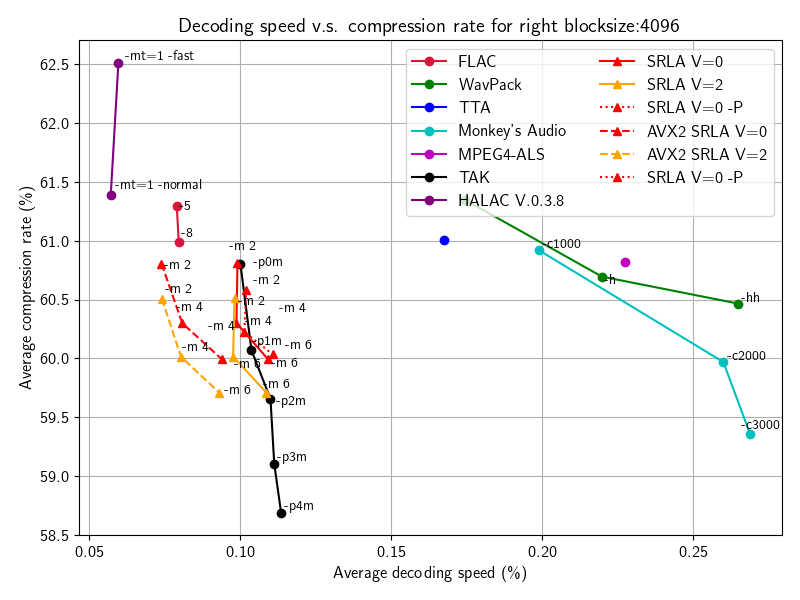
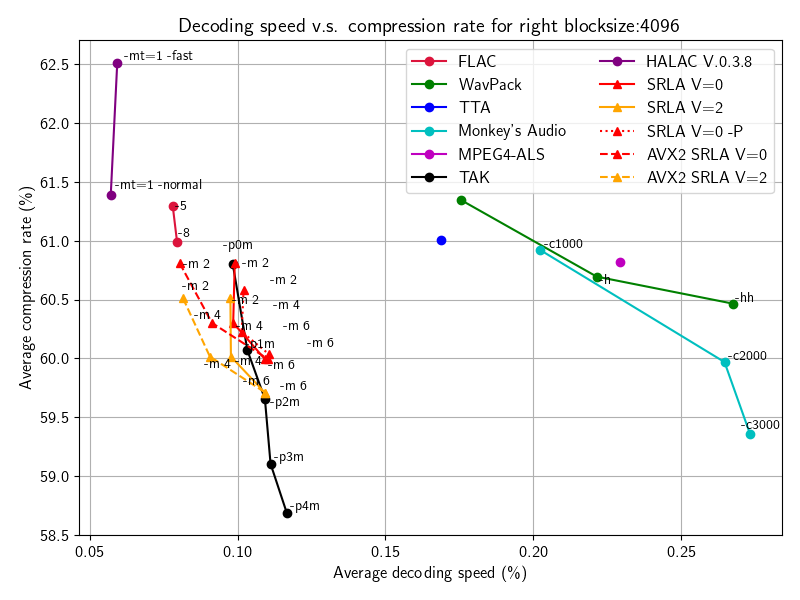
update results.

diff --git a/evaluation/plot_codec_performance_graph.py b/evaluation/plot_codec_performance_graph.py
@@ -15,7 +15,7 @@ OTHER_CODEC_LABEL_PREFIXES = ['FLAC', 'WavPack', 'TTA', 'Monkey\'s Audio', 'MPEG
 COLORLIST = ['crimson', 'g', 'b', 'c', 'm', 'k', 'purple', 'red', 'orange']
 CATEGORIES = ['classic', 'genre', 'jazz', 'popular', 'right', 'total']
 
-AVOID_LABEL_LIST = ['FLAC -0', 'WavPack -x4', 'WavPack -h -x4', 'WavPack -hh -x4', 'Monkey\'s Audio -c4000', 'MPEG4-ALS -b', 'MPEG4-ALS -7', 'TAK -p0e', 'TAK -p0', 'TAK -p1e', 'TAK -p1', 'TAK -p2e', 'TAK -p2', 'TAK -p3e', 'TAK -p3','TAK -p4e', 'TAK -p4', 'SRLA -m 0']
+AVOID_LABEL_LIST = ['FLAC -0', 'WavPack -x4', 'WavPack -h -x4', 'WavPack -hh -x4', 'Monkey\'s Audio -c4000', 'MPEG4-ALS -b', 'MPEG4-ALS -7', 'TAK -p0e', 'TAK -p0', 'TAK -p1e', 'TAK -p1', 'TAK -p2e', 'TAK -p2', 'TAK -p3e', 'TAK -p3','TAK -p4e', 'TAK -p4', 'SRLA -m 0', 'HALAC V.0.3.8 -mt=1 -ufast']
 
 def _is_avoid_label(label, include_match=False):
     if include_match is True:
@@ -84,7 +84,7 @@ if __name__ == "__main__":
                 line = [[], []]
                 for label in avx2_srla_codecs_df.keys():
                     if label.startswith('SRLA'):
-                        if not str(block_size) in label or not f'-V {div}' in label or '-P' in label or _is_avoid_label(label, True):
+                        if not str(block_size) in label or not f'-V {div}' in label or '-P 3' in label or _is_avoid_label(label, True):
                             continue
                         option_prefix = label[len('SRLA'):label.index('V') - 1]
                         decode_time = float(avx2_srla_codecs_df.at[f'{category} mean decode time', label])
@@ -93,19 +93,6 @@ if __name__ == "__main__":
                         line[0].append(decode_time)
                         line[1].append(compress_rate)
                 plt.plot(line[0], line[1], color=COLORLIST[len(OTHER_CODEC_LABEL_PREFIXES) + div_index], label=f'AVX2 SRLA V={div}', marker='^', linestyle='--')
-            for div_index, div in enumerate([0]):
-                line = [[], []]
-                for label in avx2_srla_codecs_df.keys():
-                    if label.startswith('SRLA'):
-                        if not str(block_size) in label or not f'-V {div}' in label or not '-P' in label or _is_avoid_label(label, True):
-                            continue
-                        option_prefix = label[len('SRLA'):label.index('V') - 1]
-                        decode_time = float(srla_codecs_df.at[f'{category} mean decode time', label])
-                        compress_rate = float(srla_codecs_df.at[f'{category} mean compression rate', label])
-                        texts.append(plt.text(decode_time, compress_rate, option_prefix, size=10))
-                        line[0].append(decode_time)
-                        line[1].append(compress_rate)
-                plt.plot(line[0], line[1], color=COLORLIST[len(OTHER_CODEC_LABEL_PREFIXES) + div_index], label=f'SRLA V={div} -P', marker='^', linestyle=':')
 
             adjust_text(texts)
             plt.title(f'Decoding speed v.s. compression rate for {category} blocksize:{block_size}')
@@ -142,7 +129,7 @@ if __name__ == "__main__":
                 line = [[], []]
                 for label in srla_codecs_df.keys():
                     if label.startswith('SRLA'):
-                        if not str(block_size) in label or not f'-V {div}' in label or '-P' in label or _is_avoid_label(label, True):
+                        if not str(block_size) in label or not f'-V {div}' in label or '-P 3' in label or _is_avoid_label(label, True):
                             continue
                         option_prefix = label[len('SRLA'):label.index('V') - 1]
                         encode_time = srla_codecs_df.at[f'{category} mean encode time', label]
@@ -155,7 +142,7 @@ if __name__ == "__main__":
                 line = [[], []]
                 for label in srla_codecs_df.keys():
                     if label.startswith('SRLA'):
-                        if not str(block_size) in label or not f'-V {div}' in label or not '-P' in label or _is_avoid_label(label, True):
+                        if not str(block_size) in label or not f'-V {div}' in label or not '-P 3' in label or _is_avoid_label(label, True):
                             continue
                         option_prefix = label[len('SRLA'):label.index('V') - 1]
                         decode_time = float(srla_codecs_df.at[f'{category} mean encode time', label])
@@ -163,7 +150,7 @@ if __name__ == "__main__":
                         texts.append(plt.text(decode_time, compress_rate, option_prefix, size=10))
                         line[0].append(decode_time)
                         line[1].append(compress_rate)
-                plt.plot(line[0], line[1], color=COLORLIST[len(OTHER_CODEC_LABEL_PREFIXES) + div_index], label=f'SRLA V={div} -P', marker='^', linestyle=':')
+                plt.plot(line[0], line[1], color=COLORLIST[len(OTHER_CODEC_LABEL_PREFIXES) + div_index], label=f'SRLA V={div} -P=3', marker='^', linestyle=':')
 
             adjust_text(texts)
             plt.title(f'Encoding speed v.s. compression rate for {category} blocksize:{block_size}')

diff --git a/evaluation/evaluate_codecs.py b/evaluation/evaluate_codecs.py
@@ -236,42 +236,43 @@ CODEC_CONFUGURES = [
         # TAK("-p4m"),
         # HALAC("-mt=1 -normal"),
         # HALAC("-mt=1 -fast"),
+        # HALAC("-mt=1 -ufast"),
         SRLA("-m 0 -V 0 -B 2048"),
         SRLA("-m 0 -V 2 -B 2048"),
-        SRLA("-m 0 -V 0 -B 2048 -P"),
+        SRLA("-m 0 -V 0 -B 2048 -P 3"),
         SRLA("-m 0 -V 0 -B 4096"),
         SRLA("-m 0 -V 2 -B 4096"),
-        SRLA("-m 0 -V 0 -B 4096 -P"),
+        SRLA("-m 0 -V 0 -B 4096 -P 3"),
         SRLA("-m 0 -V 0 -B 8192"),
         SRLA("-m 0 -V 2 -B 8192"),
-        SRLA("-m 0 -V 0 -B 8192 -P"),
+        SRLA("-m 0 -V 0 -B 8192 -P 3"),
         SRLA("-m 2 -V 0 -B 2048"),
         SRLA("-m 2 -V 2 -B 2048"),
-        SRLA("-m 2 -V 0 -B 2048 -P"),
+        SRLA("-m 2 -V 0 -B 2048 -P 3"),
         SRLA("-m 2 -V 0 -B 4096"),
         SRLA("-m 2 -V 2 -B 4096"),
-        SRLA("-m 2 -V 0 -B 4096 -P"),
+        SRLA("-m 2 -V 0 -B 4096 -P 3"),
         SRLA("-m 2 -V 0 -B 8192"),
         SRLA("-m 2 -V 2 -B 8192"),
-        SRLA("-m 2 -V 0 -B 8192 -P"),
+        SRLA("-m 2 -V 0 -B 8192 -P 3"),
         SRLA("-m 4 -V 0 -B 2048"),
         SRLA("-m 4 -V 2 -B 2048"),
-        SRLA("-m 4 -V 0 -B 2048 -P"),
+        SRLA("-m 4 -V 0 -B 2048 -P 3"),
         SRLA("-m 4 -V 0 -B 4096"),
         SRLA("-m 4 -V 2 -B 4096"),
-        SRLA("-m 4 -V 0 -B 4096 -P"),
+        SRLA("-m 4 -V 0 -B 4096 -P 3"),
         SRLA("-m 4 -V 0 -B 8192"),
         SRLA("-m 4 -V 2 -B 8192"),
-        SRLA("-m 4 -V 0 -B 8192 -P"),
+        SRLA("-m 4 -V 0 -B 8192 -P 3"),
         SRLA("-m 6 -V 0 -B 2048"),
         SRLA("-m 6 -V 2 -B 2048"),
-        SRLA("-m 6 -V 0 -B 2048 -P"),
+        SRLA("-m 6 -V 0 -B 2048 -P 3"),
         SRLA("-m 6 -V 0 -B 4096"),
         SRLA("-m 6 -V 2 -B 4096"),
-        SRLA("-m 6 -V 0 -B 4096 -P"),
+        SRLA("-m 6 -V 0 -B 4096 -P 3"),
         SRLA("-m 6 -V 0 -B 8192"),
         SRLA("-m 6 -V 2 -B 8192"),
-        SRLA("-m 6 -V 0 -B 8192 -P"),
+        SRLA("-m 6 -V 0 -B 8192 -P 3"),
     ]
 
 if __name__ == "__main__":
